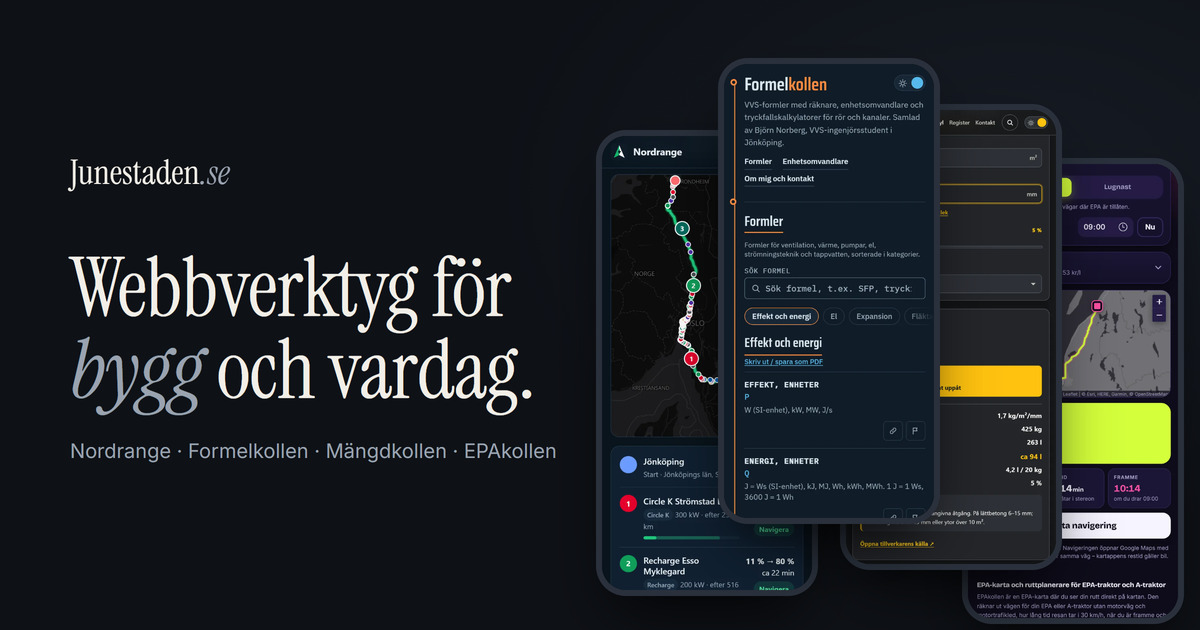
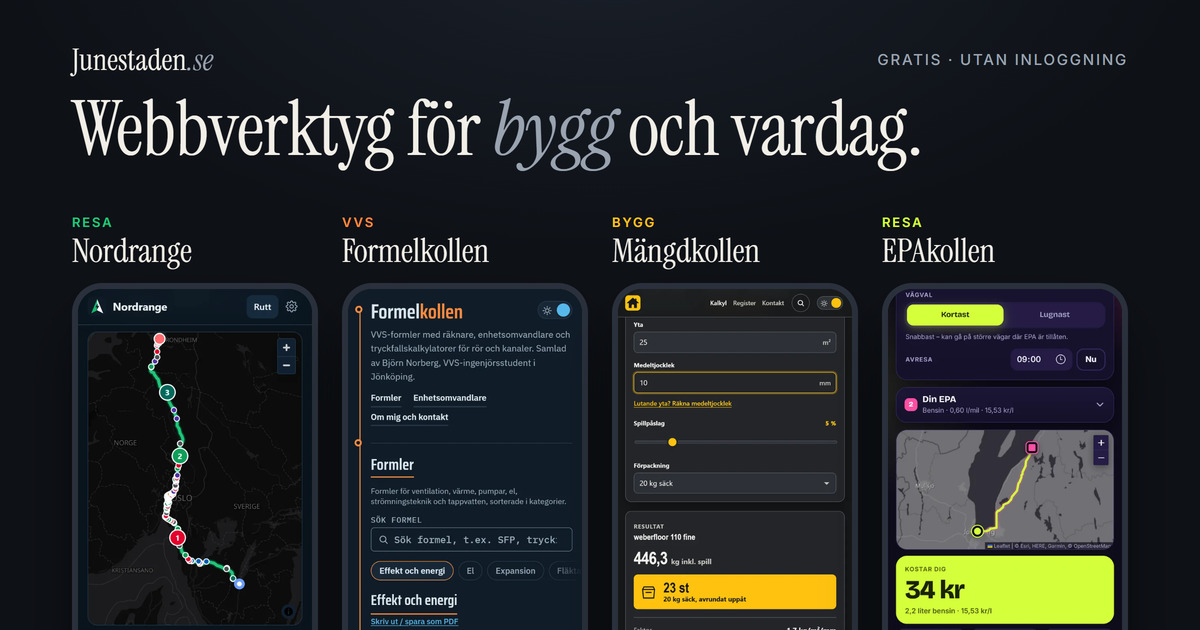
Ny delningsbild, samma sidfot på Om mig, kort beskrivning på mobilkorten

diff --git a/design/og.html b/design/og.html
@@ -1,34 +1,34 @@
 <!doctype html>
 <!-- Mall för delningsbilden img/og.jpg (1200 × 630). Behöver inte laddas upp till webben.
-     Rendera med t.ex. Edge:
-     msedge --headless=new --hide-scrollbars --window-size=1200,630 --screenshot=og.png design/og.html
-     och spara som JPG. Telefonerna visar skärmdumparna i img/. -->
+     Rendera med: python design/skarmdumpar.py og --skriv
+     Telefonerna visar skärmdumparna i public/img/. Samma etiketter och färger som korten på startsidan. -->
 <html lang="sv"><head><meta charset="utf-8">
-<link href="https://fonts.googleapis.com/css2?family=Instrument+Serif:ital@0;1&family=Inter:wght@400;500&display=block" rel="stylesheet">
+<link href="https://fonts.googleapis.com/css2?family=Instrument+Serif:ital@0;1&family=Inter:wght@400;500;600&display=block" rel="stylesheet">
 <style>
 body { margin: 0; width: 1200px; height: 630px; overflow: hidden; position: relative;
-  background: radial-gradient(900px 600px at 85% 30%, #161b24 0%, #0e1116 60%); color: #f2efe8; font-family: Inter, sans-serif; }
-.text { position: absolute; left: 70px; top: 150px; width: 560px; }
-.brand { font: 34px "Instrument Serif", serif; letter-spacing: .2px; }
+  background: radial-gradient(1000px 520px at 50% -10%, #1a202a 0%, #0e1116 62%); color: #f2efe8; font-family: Inter, sans-serif; }
+.brand { position: absolute; left: 72px; top: 40px; font: 30px "Instrument Serif", serif; letter-spacing: .2px; }
 .brand em { color: #9aa3b0; }
-h1 { margin: 52px 0 0; font: 400 82px/1 "Instrument Serif", serif; letter-spacing: -.5px; }
+.by { position: absolute; right: 72px; top: 50px; font: 500 15px Inter, sans-serif; letter-spacing: .12em; text-transform: uppercase; color: #9aa3b0; }
+h1 { position: absolute; left: 72px; top: 92px; margin: 0; font: 400 76px/1 "Instrument Serif", serif; letter-spacing: -.5px; white-space: nowrap; }
 h1 em { color: #9aa3b0; }
-p { margin: 28px 0 0; font: 400 20px Inter, sans-serif; color: #9aa3b0; }
-.phone { position: absolute; width: 210px; border: 6px solid #2a313c; border-radius: 30px; overflow: hidden; background: #000;
+.row { position: absolute; left: 72px; right: 72px; top: 214px; display: grid; grid-template-columns: repeat(4, 1fr); gap: 24px; }
+.col { position: relative; }
+.col::before { content: ""; position: absolute; left: -10%; right: -10%; top: 120px; height: 420px;
+  background: radial-gradient(50% 50% at 50% 50%, color-mix(in srgb, var(--a) 26%, transparent), transparent 70%); }
+.tag { position: relative; font: 600 13px Inter, sans-serif; letter-spacing: .14em; text-transform: uppercase; color: var(--a); }
+.name { position: relative; margin: 3px 0 14px; font: 400 33px/1.1 "Instrument Serif", serif; }
+.phone { position: relative; border: 6px solid #2a313c; border-radius: 30px; overflow: hidden; background: #000;
   box-shadow: 0 30px 60px -18px rgba(0,0,0,.85); }
 .phone img { display: block; width: 100%; height: auto; }
-.p1 { left: 596px; top: 130px; z-index: 1; }
-.p2 { left: 718px; top: 58px; z-index: 4; }
-.p3 { left: 840px; top: 104px; z-index: 3; }
-.p4 { left: 962px; top: 158px; z-index: 2; }
 </style></head><body>
-<div class="text">
-  <div class="brand">Junestaden<em>.se</em></div>
-  <h1>Webbverktyg för<br><em>bygg</em> och vardag.</h1>
-  <p>Nordrange · Formelkollen · Mängdkollen · EPAkollen</p>
+<div class="brand">Junestaden<em>.se</em></div>
+<div class="by">Gratis · utan inloggning</div>
+<h1>Webbverktyg för <em>bygg</em> och vardag.</h1>
+<div class="row">
+  <div class="col" style="--a:#1fc77a"><div class="tag">Resa</div><div class="name">Nordrange</div><div class="phone"><img src="../public/img/nordrange.webp" alt=""></div></div>
+  <div class="col" style="--a:#ff8a3d"><div class="tag">VVS</div><div class="name">Formelkollen</div><div class="phone"><img src="../public/img/vvs.webp" alt=""></div></div>
+  <div class="col" style="--a:#ffc21a"><div class="tag">Bygg</div><div class="name">Mängdkollen</div><div class="phone"><img src="../public/img/mangdkollen.webp" alt=""></div></div>
+  <div class="col" style="--a:#d4ff3a"><div class="tag">Resa</div><div class="name">EPAkollen</div><div class="phone"><img src="../public/img/epa.webp" alt=""></div></div>
 </div>
-<div class="phone p1"><img src="../public/img/nordrange.webp" alt=""></div>
-<div class="phone p2"><img src="../public/img/vvs.webp" alt=""></div>
-<div class="phone p3"><img src="../public/img/mangdkollen.webp" alt=""></div>
-<div class="phone p4"><img src="../public/img/epa.webp" alt=""></div>
 </body></html>

diff --git a/public/om.html b/public/om.html
@@ -303,12 +303,49 @@ footer .wrap {
   flex-wrap: wrap;
   justify-content: space-between;
   gap: 8px 24px;
-  padding-top: 24px;
   padding-bottom: 32px;
   font-size: 14px;
   color: var(--muted);
 }
 footer a { color: inherit; }
+.foot-rich {
+  width: 100%;
+  display: grid;
+  grid-template-columns: minmax(0, 1.6fr) repeat(2, minmax(0, 1fr));
+  gap: 28px 40px;
+  padding: 40px 0 28px;
+  margin-bottom: 14px;
+  border-bottom: 1px solid var(--line);
+  font-size: 14.5px;
+}
+.foot-rich .fbrand { font-family: var(--serif); font-size: 24px; color: var(--fg); text-decoration: none; }
+.foot-rich .fbrand em { font-style: italic; color: var(--muted); }
+.foot-rich p { margin: 8px 0 0; max-width: 340px; }
+.foot-rich h3 { margin: 4px 0 10px; font-size: 12px; font-weight: 600; letter-spacing: .14em; text-transform: uppercase; color: var(--muted); }
+.foot-rich ul { list-style: none; margin: 0; padding: 0; display: grid; gap: 7px; }
+.foot-rich li a { color: var(--fg); text-decoration: none; }
+.foot-rich li a:hover,
+.foot-rich li a:focus-visible { text-decoration: underline; text-underline-offset: 4px; }
+.foot-rich li i { display: inline-block; width: 7px; height: 7px; border-radius: 50%; margin-right: 9px; vertical-align: 1px; }
+.byline {
+  display: inline-flex;
+  align-items: center;
+  gap: 10px;
+}
+.social {
+  display: inline-grid;
+  place-items: center;
+  width: 28px;
+  height: 28px;
+  margin: -4px 0;
+  border-radius: 7px;
+  color: var(--muted);
+  transition: color .25s, background .25s;
+}
+.social svg { width: 16px; height: 16px; }
+.social:hover,
+.social:focus-visible { color: var(--fg); background: color-mix(in srgb, var(--fg) 8%, transparent); }
+
 
 /* Responsivt */
 @media (max-width: 820px) {
@@ -319,6 +356,10 @@ footer a { color: inherit; }
   .portrait img { border-radius: 20px; }
   .intro { order: 2; padding-top: 24px; }
   .content { order: 3; }
+}
+@media (max-width: 640px) {
+  .foot-rich { grid-template-columns: 1fr 1fr; padding-top: 32px; }
+  .foot-rich .fabout { grid-column: 1 / -1; }
 }
 @media (max-width: 420px) {
   .btn { width: 100%; justify-content: center; }
@@ -432,8 +473,33 @@ footer a { color: inherit; }
 
 <footer>
   <div class="wrap">
+    <div class="foot-rich">
+      <div class="fabout">
+        <a class="fbrand" href="/">Junestaden<em>.se</em></a>
+        <p>Gratis webbverktyg för bygg och vardag. Ingen inloggning, ingen reklam.</p>
+      </div>
+      <nav aria-label="Verktyg">
+        <h3>Verktyg</h3>
+        <ul>
+          <li><a href="https://nordrange.se"><i style="background:#1fc77a"></i>Nordrange</a></li>
+          <li><a href="https://vvs.junestaden.se"><i style="background:#ff8a3d"></i>Formelkollen</a></li>
+          <li><a href="https://bygg.junestaden.se"><i style="background:#ffc21a"></i>Mängdkollen</a></li>
+          <li><a href="https://epa.junestaden.se"><i style="background:#d4ff3a"></i>EPAkollen</a></li>
+        </ul>
+      </nav>
+      <nav aria-label="Mer">
+        <h3>Mer</h3>
+        <ul>
+          <li><a href="/om">Om mig</a></li>
+          <li><a href="/om#kontakt">Kontakt</a></li>
+          <li><a href="https://www.linkedin.com/in/bj%C3%B6rn-norberg-088992345" rel="me noopener" target="_blank">LinkedIn</a></li>
+        </ul>
+      </nav>
+    </div>
     <span>© <span id="year">2026</span> Junestaden</span>
-    <span><a href="/">Alla projekt</a></span>
+    <span class="byline">Byggt i Jönköping av <a href="https://www.linkedin.com/in/bj%C3%B6rn-norberg-088992345" rel="author me noopener" target="_blank">Björn Norberg</a>
+      <a class="social" href="https://www.linkedin.com/in/bj%C3%B6rn-norberg-088992345" rel="me noopener" target="_blank" aria-label="Björn Norberg på LinkedIn" title="LinkedIn"><svg viewBox="0 0 24 24" fill="currentColor" aria-hidden="true"><path d="M20.45 20.45h-3.55v-5.57c0-1.33-.03-3.04-1.85-3.04-1.86 0-2.14 1.45-2.14 2.95v5.66H9.35V9h3.41v1.56h.05c.48-.9 1.64-1.85 3.37-1.85 3.6 0 4.27 2.37 4.27 5.46v6.28zM5.34 7.43a2.06 2.06 0 1 1 0-4.12 2.06 2.06 0 0 1 0 4.12zM7.12 20.45H3.56V9h3.56v11.45zM22.22 0H1.77C.79 0 0 .77 0 1.73v20.54C0 23.23.79 24 1.77 24h20.45c.98 0 1.78-.77 1.78-1.73V1.73C24 .77 23.2 0 22.22 0z"/></svg></a>
+    </span>
   </div>
 </footer>
 

diff --git a/public/index.html b/public/index.html
@@ -20,7 +20,7 @@
 <meta property="og:url" content="https://junestaden.se/">
 <meta property="og:title" content="Junestaden – webbverktyg för bygg och vardag">
 <meta property="og:description" content="Nordrange, Formelkollen, Mängdkollen och EPAkollen – gratis webbverktyg för elbilsresor, VVS-formler, materialåtgång och EPA-resor. Utan inloggning, i mobilen och på datorn.">
-<meta property="og:image" content="https://junestaden.se/img/og.jpg?v=9">
+<meta property="og:image" content="https://junestaden.se/img/og.jpg?v=10">
 <meta property="og:image:width" content="1200">
 <meta property="og:image:height" content="630">
 <meta name="twitter:card" content="summary_large_image">
@@ -329,6 +329,8 @@ h2 {
   margin: 0 0 14px;
   font-size: 15.5px;
 }
+/* Kort beskrivning som bara visas på mobilen, där den långa texten inte får plats */
+.short { display: none; }
 .url {
   font-size: 13px;
   font-weight: 500;
@@ -438,6 +440,7 @@ footer .wrap {
   h2 { font-size: 21px; }
   .tag { font-size: 10.5px; margin-bottom: 3px; }
   .desc, .url, .arrow { display: none; }
+  .short { display: block; margin: 5px 0 0; font-size: 13.5px; line-height: 1.4; color: var(--muted); }
   .foot-rich { grid-template-columns: 1fr 1fr; padding-top: 32px; }
   .foot-rich .fabout { grid-column: 1 / -1; }
 }
@@ -492,6 +495,7 @@ footer .wrap {
           <span class="arrow" aria-hidden="true"><svg viewBox="0 0 16 16" fill="none" stroke="currentColor" stroke-width="1.6" stroke-linecap="round" stroke-linejoin="round"><path d="M3 8h10M9 4l4 4-4 4"/></svg></span>
         </div>
         <p class="desc">Ruttplanerare för elbil. Ange bil, batterinivå och resmål, så visar Nordrange var du ska ladda. Välj själv bland 20 laddnätverk i Sverige, Norge, Danmark och Finland.</p>
+        <p class="short">Ruttplanerare för elbil</p>
         <span class="url">nordrange.se</span>
       </div>
     </a>
@@ -507,6 +511,7 @@ footer .wrap {
           <span class="arrow" aria-hidden="true"><svg viewBox="0 0 16 16" fill="none" stroke="currentColor" stroke-width="1.6" stroke-linecap="round" stroke-linejoin="round"><path d="M3 8h10M9 4l4 4-4 4"/></svg></span>
         </div>
         <p class="desc">VVS-formelsamling för ventilation, värme, pumpar och tappvatten med inbyggda räknare, enhetsomvandlare och tryckfallskalkylatorer för rör och kanaler.</p>
+        <p class="short">VVS-formler och räknare</p>
         <span class="url">vvs.junestaden.se</span>
       </div>
     </a>
@@ -522,6 +527,7 @@ footer .wrap {
           <span class="arrow" aria-hidden="true"><svg viewBox="0 0 16 16" fill="none" stroke="currentColor" stroke-width="1.6" stroke-linecap="round" stroke-linejoin="round"><path d="M3 8h10M9 4l4 4-4 4"/></svg></span>
         </div>
         <p class="desc">Räkna rätt mängd avjämning, fix och fogbruk innan du åker till bygghandeln. Kilo, säckar och vatten utifrån tillverkarens egna åtgångsvärden.</p>
+        <p class="short">Räkna avjämning, fix och fog</p>
         <span class="url">bygg.junestaden.se</span>
       </div>
     </a>
@@ -537,6 +543,7 @@ footer .wrap {
           <span class="arrow" aria-hidden="true"><svg viewBox="0 0 16 16" fill="none" stroke="currentColor" stroke-width="1.6" stroke-linecap="round" stroke-linejoin="round"><path d="M3 8h10M9 4l4 4-4 4"/></svg></span>
         </div>
         <p class="desc">Räkna ut restid och bränslekostnad för din EPA-traktor. Rutten undviker motorvägar, räknas på 30&nbsp;km/h och använder dagens bensinpris.</p>
+        <p class="short">Restid och kostnad för EPA</p>
         <span class="url">epa.junestaden.se</span>
       </div>
     </a>
